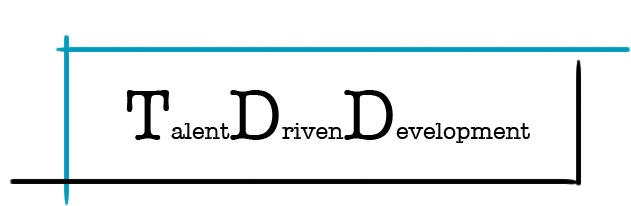
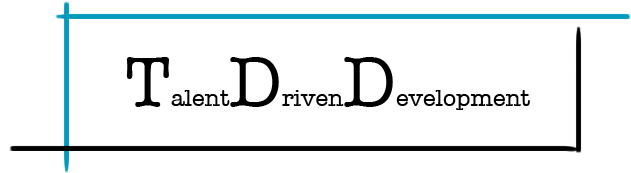
added design and text to welcome#index

diff --git a/app/assets/stylesheets/main.scss b/app/assets/stylesheets/main.scss
@@ -1,12 +1,26 @@
+$blue:#009abc;
+
 body {
   background-image:url("bg_repeat.png");
   background-repeat:repeat-y;
+  font-family: "Courier New","Helvetica", "Arial", sans-serif;
 }
-
+a {
+  font-family: "Menlo";
+  text-decoration:none;
+  color:$blue;
+}
+#header_links {
+  text-align:right;
+  margin-right:10%;
+}
 #banner {
- float:right;
- margin-right:10%;
+  text-align:right;
+  margin-right:10%;
 }
 #yield {
-  
+  position:relative;
+  left:200px;
+  top:20px;
+  width:80%;
 }

diff --git a/app/assets/stylesheets/welcome.css b/app/assets/stylesheets/welcome.css
@@ -1,4 +1,18 @@
-/*
-  Place all the styles related to the matching controller here.
-  They will automatically be included in application.css.
-*/
+#intro {
+  width:80%;
+}
+#intro p.lead_in {
+  text-align:center;
+}
+
+#intro p.question {
+  text-align:center;
+}
+
+#intro p.buttons {
+  text-align:center;
+}
+
+#intro p {
+  margin-bottom:20px;
+}

diff --git a/app/assets/stylesheets/application.css b/app/assets/stylesheets/application.css
@@ -8,7 +8,6 @@
  * You're free to add application-wide styles to this file and they'll appear at the top of the
  * compiled file, but it's generally better to create a new file per style scope.
  *
- *= require_main
  *= require_self
  *= require_tree .
 */
